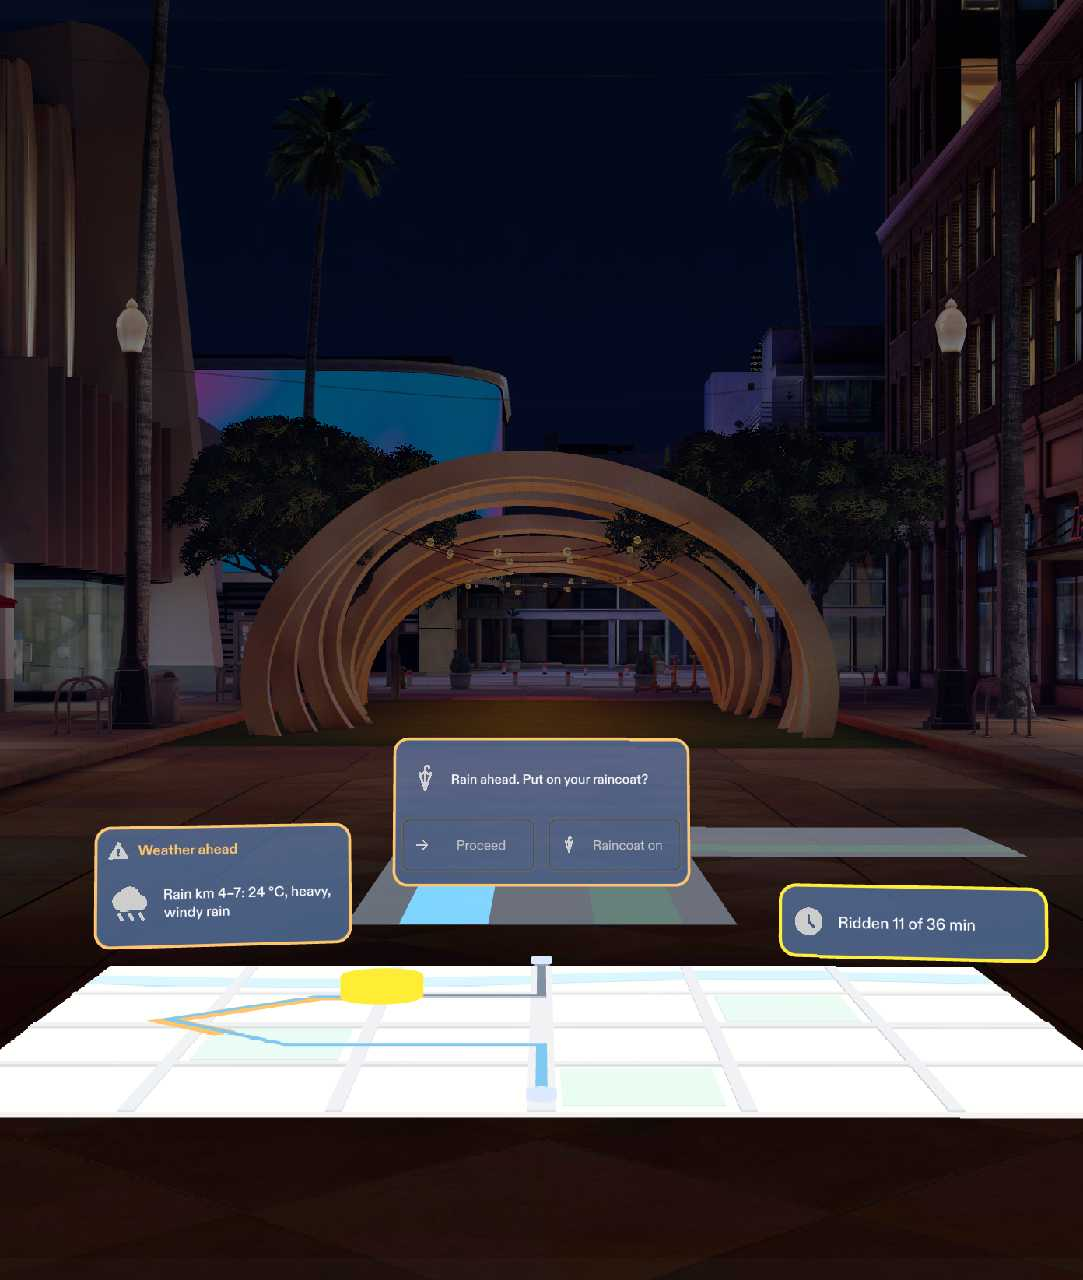
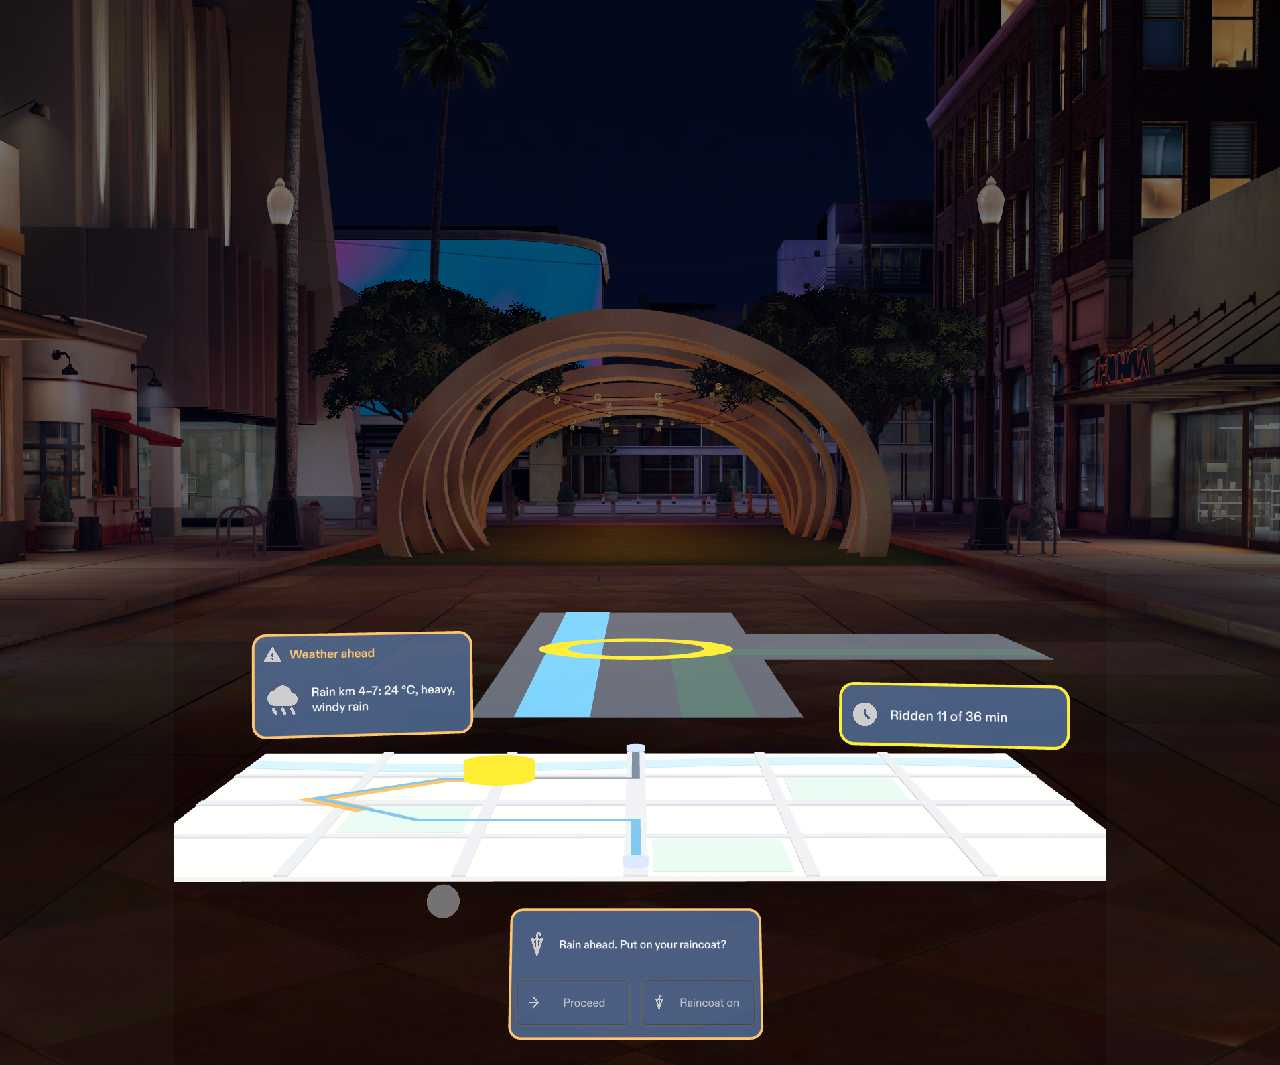
docs: record the reroute glow and the reminder's new place in the brief and README
The brief now says a picked route glows for about a second before
riding starts, puts the raincoat reminder below the map, and no longer
says the stopped rider looks at the map "on the table". The README
drops the two limitations this fixes and shows the glow.

Files changed:
- devpost/design-brief.md: after-choosing step, raincoat reminder placement, stopped-state wording, done criteria 4 and 9
- README.md: glow moment, reminder placement, tests table, decisions, limitations, state diagram
- docs/media/reroute-glow.jpg: new, route B glowing and A faded after a reroute
- docs/media/raincoat-reminder.jpg: retaken with the reminder below the map

diff --git a/README.md b/README.md
@@ -47,7 +47,7 @@ stateDiagram-v2
     Riding --> Alerted: crash or rain ahead on the route
     Alerted --> Riding: icon fades after about 2 s
     Riding --> Stopped: "I've stopped"
-    Stopped --> Riding: pick a route (or Proceed / Raincoat on)
+    Stopped --> Riding: pick a route, after its line glows for about 1 s (or Proceed / Raincoat on)
     Riding --> Arrived: end of route
     Arrived --> Planning: "Go home"
 ```
@@ -84,7 +84,11 @@ Pressing **I've stopped** brings back the map, floating where it was with no tab
 - **What is ahead.** The rest of the route, the crash stretch highlighted in coral, a card above it (*"Crash, traffic stalled, +18 min"*), and both options with updated numbers. Route B is now recommended.
 - **The route on the road.** Both routes are also laid on a mock street on the floor ahead, as wide stripes in vivid blue (route A) and green (route B) on a muted grey street, with a pulsing yellow ring where they split. Route B turns off to the right at the junction. The street, the stripes and the map are all in view together and do not cover each other. This street is a stand-in: the real product would draw the route on the real road from the rider's location and heading, which the Preview cannot do.
 
-Aiming at a route's dot, its **Choose route** button or its stripe on the road brightens that stripe. Pinching a stripe chooses that route, exactly like pinching its dot: pinching route B says *"New route set"* and hides the map, the street and the cards. Riding on to the end ends with *"You've arrived, on time."*
+Aiming at a route's dot, its **Choose route** button or its stripe on the road brightens that stripe. Pinching a stripe chooses that route, exactly like pinching its dot.
+
+![Rerouting: the rider pinched route B, so its stripe on the road glows bright green and route A's blue stripe has faded into the street; the map and cards stay for a moment.](docs/media/reroute-glow.jpg)
+
+When a route is picked, the rider hears *"New route set"*, the chosen route's stripe glows and the other one fades for about a second (hand input is off during it), and then the map, the street and the cards hide and riding starts. Riding on to the end ends with *"You've arrived, on time."*
 
 ### Evening: rain ahead and the raincoat reminder
 
@@ -94,7 +98,7 @@ On the way home, the alert is *"Rain on your route in 10 minutes. Pull over to s
 
 ![Raincoat reminder above the map: "Rain ahead. Put on your raincoat?" with Proceed and Raincoat on buttons; only route A and its rain stretch remain on the map, and on the road route A's stripe is bright while route B's has faded.](docs/media/raincoat-reminder.jpg)
 
-Choosing to stay on the rainy route (by its dot or its stripe on the road) shows a small reminder just above the map with **Proceed** and **Raincoat on**. The chosen route's stripe on the road glows and the other one fades. Either button hides everything and returns to riding: the rider goes through the rain prepared, which is the point of being warned in time.
+Choosing to stay on the rainy route (by its dot or its stripe on the road) shows a small reminder just below the map, centred in front of the rider, with **Proceed** and **Raincoat on**. It sits below the map so it never covers the map or the street. The chosen route's stripe on the road glows and the other one fades for as long as the question is open. Either button hides everything and returns to riding: the rider goes through the rain prepared, which is the point of being warned in time.
 
 ### The Ride simulator (preview only)
 
@@ -129,13 +133,13 @@ Each done criterion in the design brief has one [LEAF](https://developers.snap.c
 | C1 | "Go to office" shows the map with two routes, each with a dot and a time/fuel/weather label, one marked Recommended; pinching a dot picks the route and hides the map | **Pass** |
 | C2 | "Ride" moves the progress bar, and nothing from the Lens is in view | **Pass** |
 | C3 | At the crash point: chime, alert sentence as a caption, a small icon low and off-centre, gone after about 2 s | **Pass** (icon measured 16 cm below and 10 cm right of the line of sight, 1 m ahead; gone after about 1.9 s) |
-| C4 | "I've stopped" shows the crash stretch highlighted, the delay card and route B; pinching B says "New route set" and riding on ends with the on-time arrival line | **Pass** |
+| C4 | "I've stopped" shows the crash stretch highlighted, the delay card and route B; pinching B says "New route set", route B's line glows for a moment, then the map hides, and riding on ends with the on-time arrival line | **Pass** (while the pick glows the rider is still stopped, route B's stripe is the chosen one and the street is still drawn; then everything hides) |
 | C5 | Evening: rain stretch and a card with temperature, intensity and type; picking the rainy route shows the raincoat reminder; Proceed or Raincoat on hides it | **Pass** (both buttons tested) |
 | C6 | The virtual table is visible during the whole Planning state and hidden in every other state | **Pass** (checked at the start, during the clarifying question, with the map, then Riding, Alerted, Stopped, Arrived, and Planning again after "Go home") |
 
 | C7 | When stopped, the map is about 1 m ahead and a little below eye level, in view | **Pass** (measured from the rider's eye looking straight ahead: 110 cm ahead, 22.6 cm below eye level, centred, which is 11.6° below the horizon) |
 | C8 | When stopped, the ridden part is dim, with a clear "you are here" marker and a progress card | **Pass** (card reads "Ridden 9 of 34 min"; the ridden stretch is dimmer than the route ahead, 0.57 against 0.74; the marker is more than twice the home marker's size and bright yellow; all of it is gone once riding) |
-| C9 | When stopped, both routes are laid on the mock street in vivid colours with a pulsing ring; street and map do not cover each other; aiming at a dot, a button or a line brightens the line; pinching a line chooses that route; the chosen line glows and the other fades; riding hides it all | **Pass** (seen from the start position the street spans 4.9° to 8.6° below the horizon and the map 9.9° to 14.1°, so they do not overlap; stripes are 2.7° wide at the near end; aiming at route B's line, route A's dot and the Choose route B button each brighten the right line; pinching route B's side-road stripe says "New route set"; in the evening pinching route A's stripe asks about the raincoat with A chosen and B faded) |
+| C9 | When stopped, both routes are laid on the mock street in vivid colours with a pulsing ring; street and map do not cover each other; aiming at a dot, a button or a line brightens the line; pinching a line chooses that route; the chosen line glows and the other fades; riding hides it all | **Pass** (seen from the start position the street spans 4.9° to 8.6° below the horizon and the map 9.9° to 14.1°, so they do not overlap; stripes are 2.7° wide at the near end; aiming at route B's line, route A's dot and the Choose route B button each brighten the right line; pinching route B's side-road stripe says "New route set", glows B and fades A with nothing left to pinch for a moment, then starts riding; in the evening pinching route A's stripe asks about the raincoat with A chosen and B faded) |
 
 C2 and C4 were extended for the table: C2 also checks that the table is off while riding, and C4 checks that the map floats with no table when stopped. Each check reads both the snapshot flag and the real `MapTable` object in the scene. C7 and C9 measure from the rider's eye position looking straight ahead, so they give the same answer even if the Preview's camera has been turned. C3 changed only because the alert now comes later in the trip (see the design decisions below).
 
@@ -210,6 +214,8 @@ These changed a default number from the brief, or settled something the brief le
 - **Captions carry every spoken line.** See [Known limitations](#known-limitations).
 - **The alert comes later in the trip.** It was at 10% of the route, so the "ridden" stretch was too short to see. It is now at 25% (about 9 of 34 minutes), which also puts the rider before the crash stretch and clear of route A's dot, so the marker never hides a dot.
 - **The street is far enough away to sit above the map.** Near the rider it ran behind and under the floating map, so the street starts about 10.5 m ahead, is 2.2 m wide and 8 m long, and its floor is 1.6 m below eye level. That puts the whole street above the map in the view, clear of the cards. The stripes are 50 cm wide, which is 2.7° across at the near end (the brief asked for at least about 2°), and about 1.5° at the far end.
+- **The glow on a reroute lasts about a second.** Choosing a route used to go straight back to riding, so the glow was never seen. Now the pick is confirmed first: the chosen stripe glows and the other fades for 1.2 seconds (a slider on `TrafficInsightMain`), hand input is off during it, and then riding starts. Picking a route while planning is unchanged: it hides the table and map at once.
+- **The raincoat reminder is below the map.** Just above the map it covered the upper part of the street, which the brief also forbids. Below the map, centred, tilted to face the rider, nothing overlaps it, and it is the closest spot to the hands. The brief was updated to match.
 - **The "you are here" marker is yellow.** No route or problem colour is yellow, so it cannot be mistaken for one. The progress card has the same yellow border.
 - **Stripes can be pinched, with one caveat.** Pinching a stripe works in the LEAF tests and picks the route like the dot. Whether a long thin target several metres away is easy to hit by hand is untested, so the dots and the Choose route buttons stay the dependable way to choose.
 - **Sample numbers.** The brief fixed the crash delay (+18 min), the rain details and the reroute cost (+12 min). The other route times and fuel values are defaults chosen during the build.
@@ -220,8 +226,6 @@ These changed a default number from the brief, or settled something the brief le
 - **No spoken voice.** The Lens plays its chime and tones, but the text-to-speech module is deprecated in this SDK, so the spoken lines appear as captions on the simulator panel instead. The brief planned captions as the fallback for exactly this case.
 - **Preview only.** Hand tracking, comfort over time and readability in daylight are untested on real Spectacles.
 - **The road view is a stand-in.** It is a model of a street in the Preview room. How accurately a route line would sit on a real road, and how it would look in daylight, is untested.
-- **The raincoat reminder covers part of the street.** The brief puts the reminder just above the map, and it also says the street and the map must not cover each other. In the raincoat step the reminder hides the upper part of the street (the stripes stay visible below it). This is a conflict inside the brief that needs a design decision, for example moving the reminder below the map.
-- **No glow on a reroute.** Choosing route B while stopped goes straight back to riding, so everything hides at once and the stripe's glow is never seen. The glow and the faded stripe show in the raincoat step, where the rider stays stopped after choosing.
 - **Tooling left in the scene.** The scene contains an `AiPreviewAgent Handler` object, added by the Lens Studio preview tools the agent used. It renders nothing and may be removed before submission.
 
 ## Repository layout

diff --git a/devpost/design-brief.md b/devpost/design-brief.md
@@ -40,13 +40,13 @@ The demo tells this as one day, in two trips that reuse the same map, alert and 
 **Two layers in the scene.** The *Lens* is what the rider would see on real glasses. The *Ride simulator* is demo scaffolding that only exists because the preview has no road. Keep them clearly separate: the simulator panel sits off to one side, labeled "Ride simulator (preview only)" (default). The "nothing on screen while riding" rule applies to the Lens layer only. The mock street stands in for the real road and exists only in the preview; the Lens's route lines and marks are drawn on it, and only while I'm stopped.
 
 ## Where things live
-- Where the user is looking during the main task: in the stopped state, down at the map on the table in front of them. While riding, straight ahead at the road.
+- Where the user is looking during the main task: in the stopped state, at the floating map in front of them, a little below eye level. While riding, straight ahead at the road.
 - **Route map (planning):** flat on a virtual table, about 60 × 40 cm (default), table top about 75 cm high (default), about 1 m in front of the user's start position (default) and a little below eye level. A simple, light-colored city map: roads as thin light lines, routes as thicker colored lines raised slightly off the map. No dark backgrounds, because black renders as transparent.
 - **Route dots:** one big dot per route, about 4 cm across (default). Each sits on its own route line where the routes are furthest apart (default).
 - **Route labels:** a small card next to each dot showing that route's time, fuel and weather. The recommended route (best time first, then fuel) is marked "Recommended".
 - **Problem stretch highlight:** the crashed or rainy part of the remaining route gets a border or glow along the line.
 - **Problem card:** sits on the highlighted stretch. Crash: "Crash, traffic stalled, +18 min" (default wording). Rain: temperature, rain intensity, and type (storm, windy rain, light rain).
-- **Raincoat reminder:** a small panel just above the map, near the chosen route, with "Proceed" and "Raincoat on" buttons.
+- **Raincoat reminder:** a small panel just below the map, centred in front of the rider (default), with "Proceed" and "Raincoat on" buttons. It sits below the map so it never covers the street ahead or the map.
 - **Alert icon:** small, about 4 cm (default), low in the view and never in the center, about 1 m away (default). It gently follows where the user looks so it stays in view (default).
 - **Ride simulator panel:** to the user's right, about 1 m away, angled toward them (default). It holds a route progress bar, the "Ride" button, the "I've stopped" button, the trip buttons, the voice-command buttons and the caption line.
 - **Floating map (stopped):** the same map, dots, labels and cards, with no table. About 1.1 m in front of the rider (default) and about 20 cm below eye level (default), facing the rider. It stays still once it appears.
@@ -81,7 +81,7 @@ stateDiagram-v2
 - **Riding:** nothing from the Lens on screen (no map, no table, no marks on the road), only short voice cues. Audio must not drown out traffic.
 - **Alerted:** a chime plus one short sentence, and the small icon low in the view, which disappears after about 2 seconds. Morning: "Crash ahead on your route, traffic is stalled. Pull over to see options." (default wording). Evening: "Rain on your route in 10 minutes. Pull over to see options." Keep the tone calm (default).
 - **Stopped:** the full picture. There is no table: the map floats in front of the rider, with the progress marks, the rest of the route with the problem stretch highlighted, the problem card, and a dot and label for each option. The routes are also laid on the mock street ahead, with a pulsing ring where they split. Morning: current route A and reroute B. Evening: the dry reroute (when available; in the sample data it is, at +12 min, a default number) and the rainy route.
-- **After choosing:** a voice says "New route set" (default wording) and the map and the road marks hide, so you're back to riding.
+- **After choosing:** a voice says "New route set" (default wording). The chosen route's line on the road glows and the other one fades for about a second (default, hand input is off during it), then the map and the road marks hide, so you're back to riding.
 - **Raincoat reminder:** shows only if the rainy route is chosen. Hides when "Proceed" or "Raincoat on" is pinched, and everything goes back to normal riding.
 - **Arrived:** a short voice line, "You've arrived, on time." (default wording). Nothing stays on screen.
 - If something needs attention out of view: the chime and voice do that job; the map only appears when the rider has stopped.
@@ -91,12 +91,12 @@ Each one can be checked in Lens Studio's preview. Drafted from the learner's sto
 1. Pressing "Go to office" shows the map on the virtual table with two routes. Each has a big dot and a label with time, fuel and weather, and one is marked "Recommended". Pinching a dot picks that route and the map hides.
 2. While riding, pressing "Ride" moves the progress bar on the Ride simulator, and nothing from the Lens is in view, including the table, until an alert.
 3. At the crash point a chime plays, the alert sentence plays (and shows as a caption), and a small icon appears low in the view, not in the center, then disappears after about 2 seconds.
-4. Pressing "I've stopped" after the crash alert shows the map floating in front of me (no table), with the rest of route A and the crash stretch highlighted, a delay card, plus route B. Pinching route B's dot plays "New route set" and hides the map, and riding on to the end plays the on-time arrival line.
+4. Pressing "I've stopped" after the crash alert shows the map floating in front of me (no table), with the rest of route A and the crash stretch highlighted, a delay card, plus route B. Pinching route B's dot plays "New route set", its line glows for about a second, and then the map hides, and riding on to the end plays the on-time arrival line.
 5. On the evening trip, after the rain alert, pressing "I've stopped" shows the rainy stretch highlighted with a card for temperature, rain intensity and type. Pinching the rainy route's dot shows the raincoat reminder, and pinching "Proceed" or "Raincoat on" hides it and returns to riding.
 6. The virtual table is visible during the whole planning state, including at the start and while the clarifying question is shown, and is hidden in every other state.
 7. Pressing "I've stopped" puts the map about 1 m ahead and a little below eye level, in view.
 8. When stopped, the part of the route already ridden is shown dim, with a clear "you are here" marker and a progress card, for example "Ridden 12 of 34 min".
-9. When stopped, both routes are also shown laid on the mock street ahead, in vivid colours, with a pulsing ring where they split, and the street and the map do not cover each other. Aiming at a route's dot or at its line brightens that line. Pinching a route's line chooses that route, the same as pinching its dot. Choosing a route makes its line glow and fades the other. Riding hides all of it.
+9. When stopped, both routes are also shown laid on the mock street ahead, in vivid colours, with a pulsing ring where they split, and the street and the map do not cover each other. Aiming at a route's dot or at its line brightens that line. Pinching a route's line chooses that route, the same as pinching its dot. Choosing a route makes its line glow and fades the other: for about a second before riding starts, or for as long as the raincoat question is open. Riding hides all of it.
 
 ## Out of scope
 - Real GPS, real navigation, live traffic and live weather (all hard-coded sample data).
